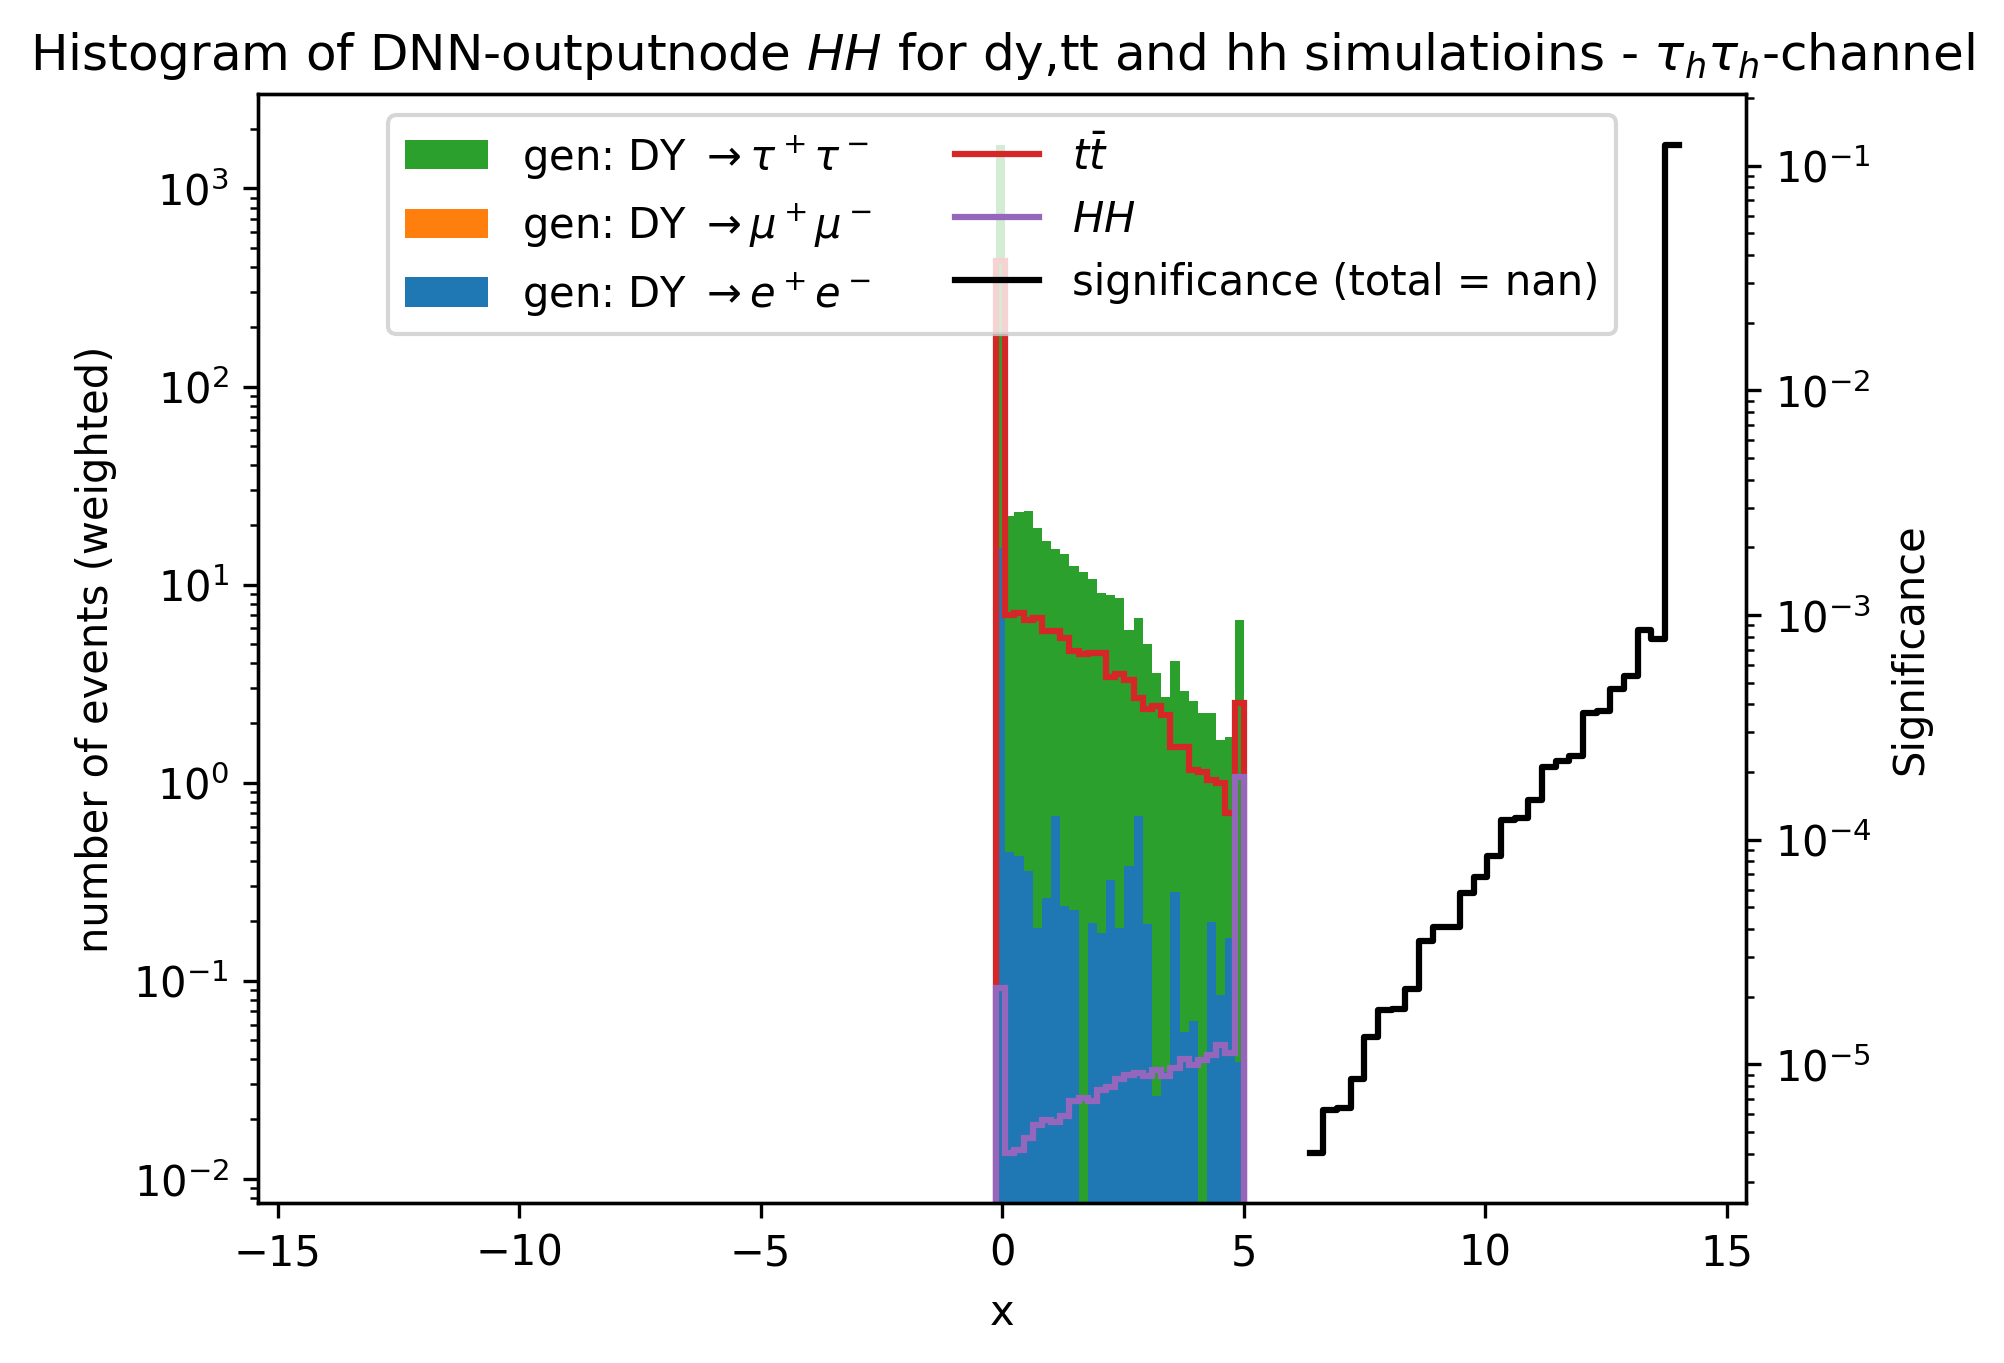
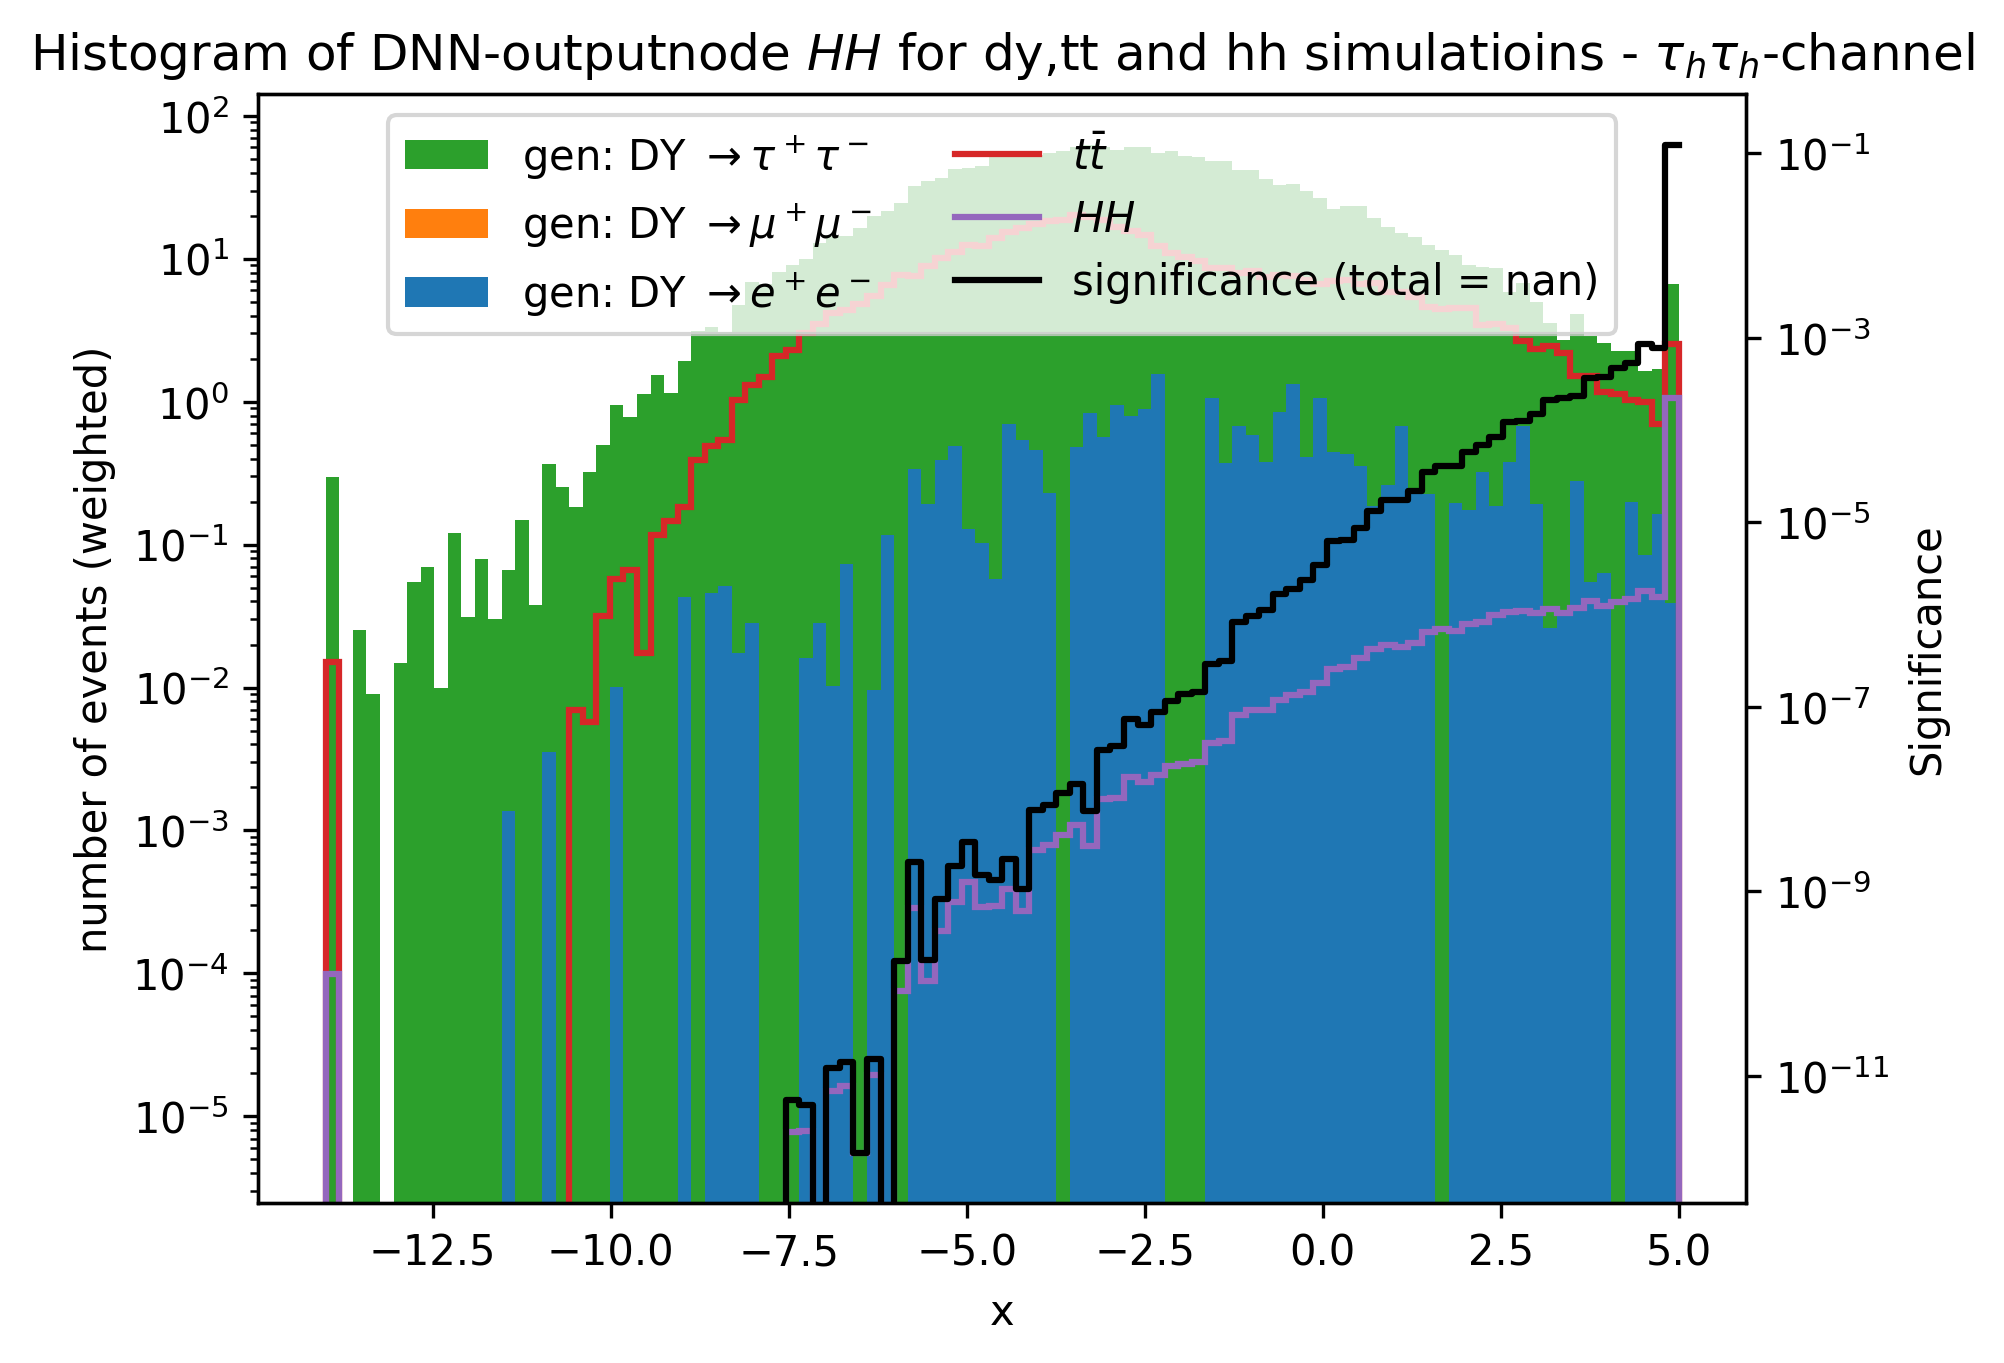
logit trafo für hist_1_logit.py fertig

diff --git a/plotting/hists_1_logit.py b/plotting/hists_1_logit.py
@@ -13,7 +13,7 @@ events_hh = ak.from_parquet("/data/dust/user/wolfmor/hh2bbtautau/vincent/hh_22pr
 def stable_logit(x, eps=1e-6, limit=5.0):
     x = np.clip(x, eps, 1 - eps) # Begrenzt x auf [0.000001, 0.999999]
     y = np.log(x / (1 - x))
-    return np.clip(y,-14, limit - 1e-5)
+    return np.clip(y,-14, limit-1e-5)
 
 #Histogramme definieren, 2-D für dy wegen Unterteilung
 dy = Hist(
@@ -57,7 +57,7 @@ for i in [1,2,3]:
     significance = signal_bins**2/background_bins
     significance_total = round(np.sqrt(np.sum(significance**2)),3)
     ax2 = ax1.twinx()  # Erstellt die rechte Achse
-    ax2.step(np.linspace(-14, 14, 100),significance, label=f"significance (total = {significance_total})", color="black")
+    ax2.step(np.linspace(-14+19/100, 5, 100),significance, label=f"significance (total = {significance_total})", color="black")
     ax2.set_ylabel('Significance')
     ax2.tick_params(axis='y', labelcolor='black')
 
@@ -85,12 +85,12 @@ for i in [1,2,3]:
 
 #2. wie 1, aber tt wird zum stack hinzugefügt
 for i in [1,2,3]: #i steht für den channel
-    dy.fill(x=events_dy.run3_dnn_moe_hh[(events_dy.channel_id == i) & (events_dy.gen_ll_pdgid == 11)],Zerfallskanal=r"gen: DY $\to e^+e^-$", weight=events_dy.event_weight[(events_dy.channel_id == i) & (events_dy.gen_ll_pdgid == 11)])    #maske für channel (und bei dy Zerfallskanal) in eckigen Klammern
-    dy.fill(x=events_dy.run3_dnn_moe_hh[(events_dy.channel_id == i) & (events_dy.gen_ll_pdgid == 13)],Zerfallskanal=r"gen: DY $\to \mu^+\mu^-$", weight=events_dy.event_weight[(events_dy.channel_id == i) & (events_dy.gen_ll_pdgid == 13)])
-    dy.fill(x=events_dy.run3_dnn_moe_hh[(events_dy.channel_id == i) & (events_dy.gen_ll_pdgid == 15)],Zerfallskanal=r"gen: DY $\to \tau^+\tau^-$", weight=events_dy.event_weight[(events_dy.channel_id == i) & (events_dy.gen_ll_pdgid == 15)])
-    dy.fill(x=events_tt.run3_dnn_moe_hh[events_tt.channel_id == i],Zerfallskanal=r"$t\bar{t}$", weight=events_tt.event_weight[events_tt.channel_id == i])
+    dy.fill(x=stable_logit(events_dy.run3_dnn_moe_hh[(events_dy.channel_id == i) & (events_dy.gen_ll_pdgid == 11)]),Zerfallskanal=r"gen: DY $\to e^+e^-$", weight=events_dy.event_weight[(events_dy.channel_id == i) & (events_dy.gen_ll_pdgid == 11)])    #maske für channel (und bei dy Zerfallskanal) in eckigen Klammern
+    dy.fill(x=stable_logit(events_dy.run3_dnn_moe_hh[(events_dy.channel_id == i) & (events_dy.gen_ll_pdgid == 13)]),Zerfallskanal=r"gen: DY $\to \mu^+\mu^-$", weight=events_dy.event_weight[(events_dy.channel_id == i) & (events_dy.gen_ll_pdgid == 13)])
+    dy.fill(x=stable_logit(events_dy.run3_dnn_moe_hh[(events_dy.channel_id == i) & (events_dy.gen_ll_pdgid == 15)]),Zerfallskanal=r"gen: DY $\to \tau^+\tau^-$", weight=events_dy.event_weight[(events_dy.channel_id == i) & (events_dy.gen_ll_pdgid == 15)])
+    dy.fill(x=stable_logit(events_tt.run3_dnn_moe_hh[events_tt.channel_id == i]),Zerfallskanal=r"$t\bar{t}$", weight=events_tt.event_weight[events_tt.channel_id == i])
 
-    hh.fill(events_hh.run3_dnn_moe_hh[events_hh.channel_id == i],weight=events_hh.event_weight[events_hh.channel_id == i])
+    hh.fill(x=stable_logit(events_hh.run3_dnn_moe_hh[events_hh.channel_id == i]),weight=events_hh.event_weight[events_hh.channel_id == i])
 
     fig, ax1 = plt.subplots()
 
@@ -107,9 +107,11 @@ for i in [1,2,3]: #i steht für den channel
     background_bins = np.sum(dy.values(),axis=0)
     signal_bins = hh.values()
     significance = signal_bins**2/background_bins
+    significance = np.nan_to_num(significance, nan=0.0)
     significance_total = round(np.sqrt(np.sum(significance**2)),3)
+    #from IPython import embed; embed(header="MESSAGE Line 111 | File: hists_1_logit.py")
     ax2 = ax1.twinx()  # Erstellt die rechte Achse
-    ax2.step(np.linspace(0, 1, 100),significance, label=f"significance (total = {significance_total})", color="black")
+    ax2.step(np.linspace(-14+19/100, 5, 100),significance, label=f"significance (total = {significance_total})", color="black")
     ax2.set_ylabel('Significance')
     ax2.tick_params(axis='y', labelcolor='black')
 
